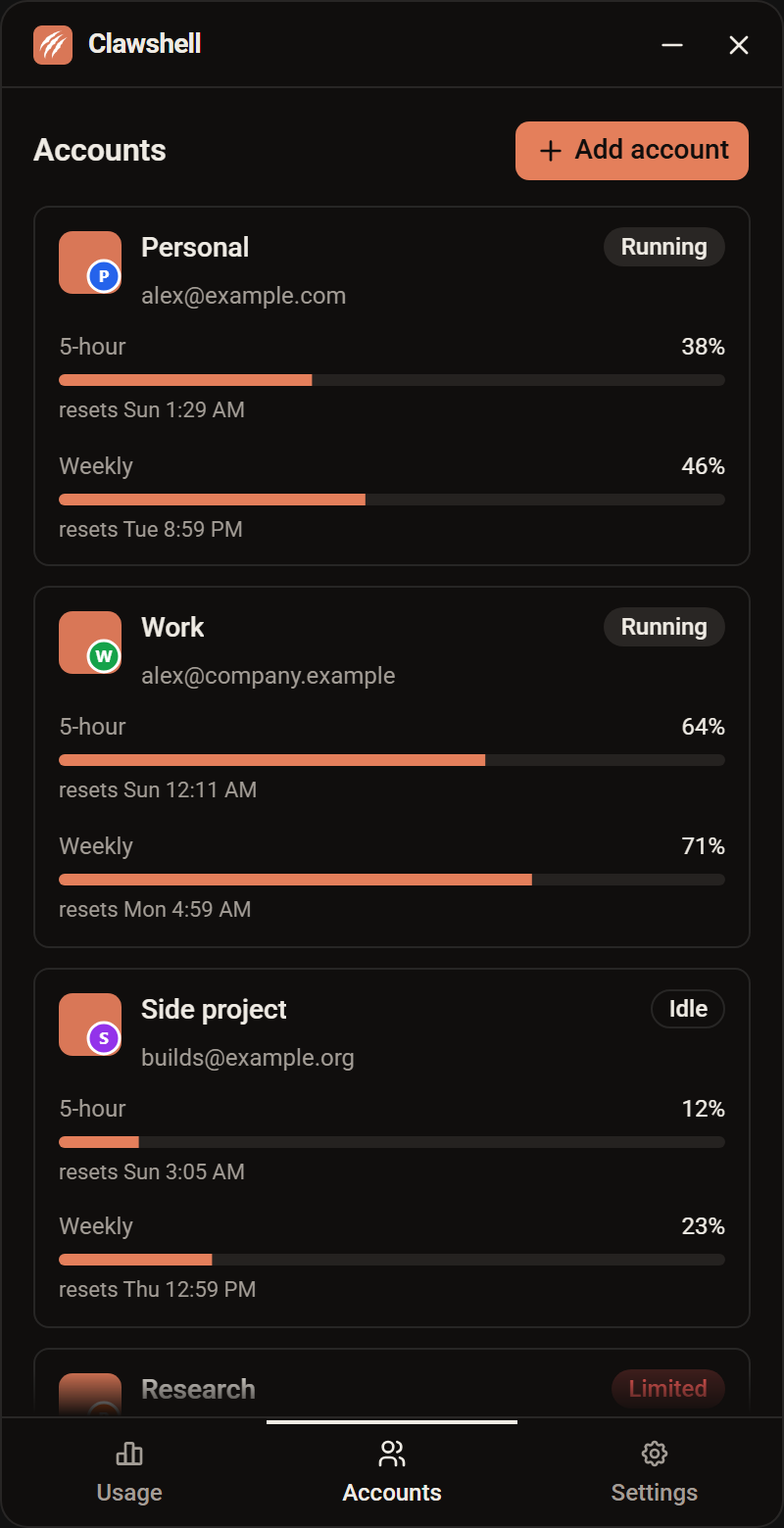
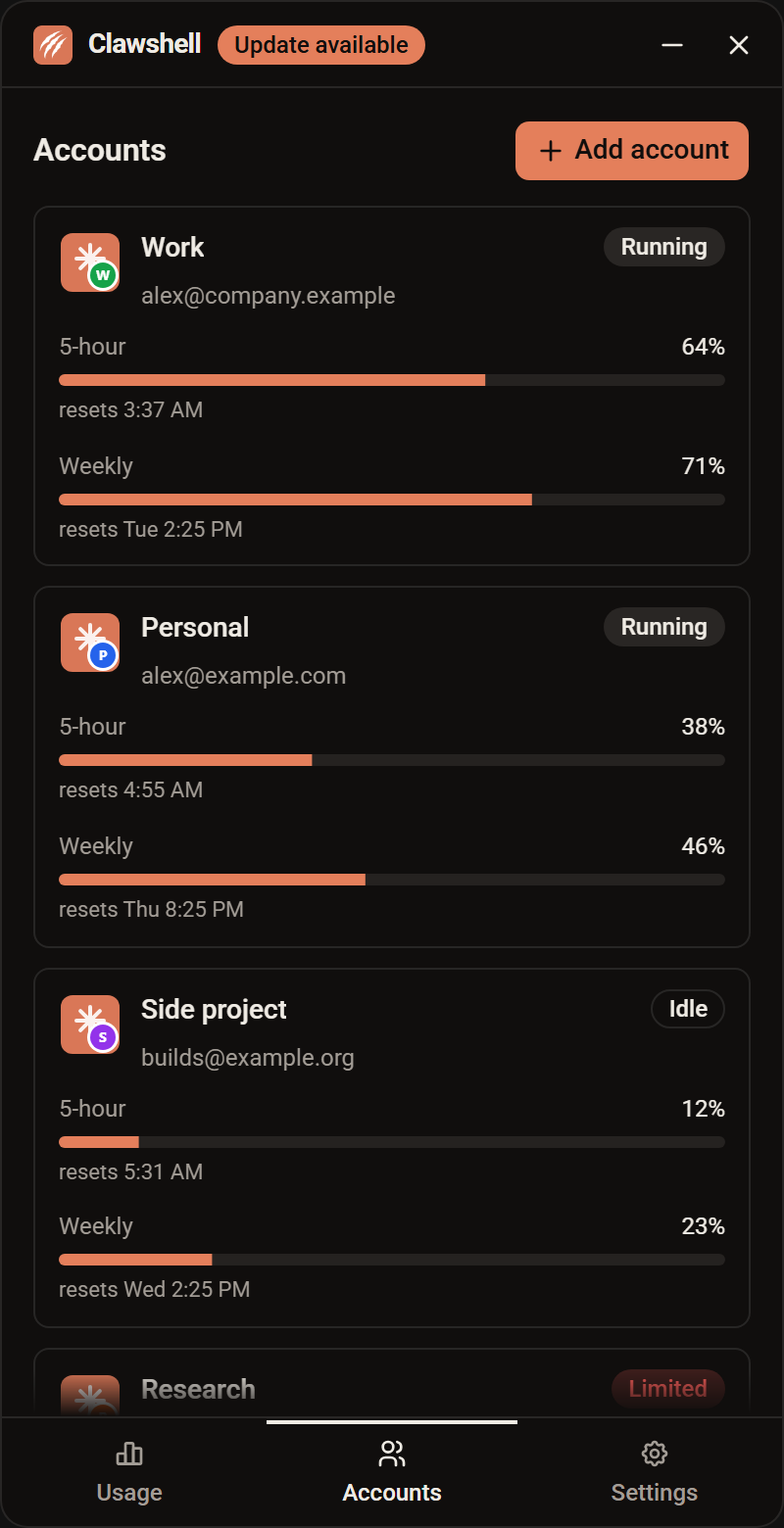
Rewrite README for v0.2.0 with new screenshots, and add release notes
Covers auto-update, drag-and-drop account order, reset alerts on every
window, the 9-week heatmap with per-account tooltips, and the sign-in
routing warning. Adds screenshots of the update dialog, heatmap tooltip,
notification settings, sign-in warning and Persian layout, and the
v0.2.0 notes in docs/updates.

diff --git a/README.md b/README.md
@@ -5,7 +5,7 @@
 <h1 align="center">clawshell</h1>
 
 <p align="center">
-  Run several Claude Desktop accounts side by side on Windows, and see how much of each one's limits you have left.
+  Run several Claude Desktop accounts side by side on Windows, and see how much of each one's limits you have used.
 </p>
 
 <p align="center">
@@ -21,7 +21,10 @@
 
 ---
 
-clawshell is a small tray app for people with more than one Claude subscription. Each account runs in its own Claude Desktop window at the same time, so you never sign out to switch. A compact dashboard shows each account's remaining 5-hour and weekly capacity and what your Code-tab sessions cost.
+clawshell is a small tray app for people with more than one Claude subscription. Each account runs in its own Claude Desktop window at the same time, so you never sign out to switch. A compact dashboard shows how much of each account's 5-hour and weekly limits you have used, and what your Code-tab sessions cost.
+
+> [!TIP]
+> **New in this release:** automatic updates, drag-and-drop account order, a reset alert for every window, a 9-week heatmap with a per-account breakdown, and a warning when Windows sends sign-in links to another app. See [What's new](docs/updates/v0.2.0.md).
 
 > [!IMPORTANT]
 > clawshell is an unofficial project and is not affiliated with Anthropic. See the [disclaimer](#disclaimer) before you use it.
@@ -32,6 +35,7 @@ clawshell is a small tray app for people with more than one Claude subscription.
 - [Screenshots](#screenshots)
 - [Requirements](#requirements)
 - [Installation](#installation)
+- [Updating](#updating)
 - [Usage](#usage)
 - [How it works](#how-it-works)
 - [Privacy](#privacy)
@@ -44,21 +48,35 @@ clawshell is a small tray app for people with more than one Claude subscription.
 ## Features
 
 - **Concurrent accounts.** Every account gets an isolated Claude Desktop profile, so several can be open and signed in at once.
-- **Limit tracking.** See the 5-hour and weekly usage of every account, how many accounts can still work, and when the next one resets.
+- **Limit tracking.** See how much of each account's 5-hour and weekly limits is used, how many accounts can still work, and when the next one resets.
 - **Cost overview.** A monthly dollar total per account, combining real extra-usage spend with an estimate for Code-tab sessions priced from token counts.
-- **60-day heatmap.** Daily cost or daily load at a glance.
-- **Limit notifications.** Alerts when an account crosses thresholds you choose.
+- **9-week heatmap.** Daily cost at a glance. Hover a day to see its dollars and tokens, split by account.
+- **Limit and reset notifications.** Alerts when an account crosses thresholds you choose, and whenever a 5-hour or weekly window resets.
+- **Your order.** Drag accounts to reorder them. The order carries over to the tray menu, the cost card and the heatmap.
+- **Automatic updates.** clawshell checks GitHub releases, shows what's new, and installs the update in place.
 - **Windows integration.** Tray icon, a separate taskbar button per account with a coloured badge, desktop shortcuts, and launch at boot.
-- **Sign-in routing.** Browser sign-ins return to the account that started them.
+- **Sign-in routing.** Browser sign-ins return to the account that started them, with a warning if Windows sends them elsewhere.
 - **Per-account configuration.** Names, badge colours, environment variables and launch flags.
-- **English and Persian.** Full right-to-left layout for Persian.
+- **English and Persian.** Full right-to-left layout for Persian, tooltips and menus included.
 
 ## Screenshots
 
-|                                                                          Usage                                                                          |                                                                 Accounts                                                                  |                                                               Settings                                                               |
-| :-----------------------------------------------------------------------------------------------------------------------------------------------------: | :---------------------------------------------------------------------------------------------------------------------------------------: | :----------------------------------------------------------------------------------------------------------------------------------: |
-| <img src="docs/screenshots/usage.png" alt="Usage tab with a 60-day cost heatmap, pooled 5-hour and weekly capacity, and the monthly total" width="260"> | <img src="docs/screenshots/accounts.png" alt="Accounts tab listing each account with its status and 5-hour and weekly usage" width="260"> | <img src="docs/screenshots/settings.png" alt="Settings tab with launch, tray, sign-in routing and notification options" width="260"> |
-|                                                     Monthly cost, pooled capacity and daily history                                                     |                                                     Every account's status and limits                                                     |                                                  Startup, tray, routing and alerts                                                   |
+|                                                                        Usage                                                                         |                                                                 Accounts                                                                  |                                                        Settings                                                        |
+| :--------------------------------------------------------------------------------------------------------------------------------------------------: | :---------------------------------------------------------------------------------------------------------------------------------------: | :--------------------------------------------------------------------------------------------------------------------: |
+| <img src="docs/screenshots/usage.png" alt="Usage tab with a 9-week cost heatmap, pooled 5-hour and weekly usage, and the monthly total" width="260"> | <img src="docs/screenshots/accounts.png" alt="Accounts tab listing each account with its status and 5-hour and weekly usage" width="260"> | <img src="docs/screenshots/settings.png" alt="Settings tab with launch, tray and sign-in routing options" width="260"> |
+|                                                     Daily history, pooled usage and monthly cost                                                     |                                                     Every account's status and limits                                                     |                                           Startup, tray and sign-in routing                                            |
+
+### New in this release
+
+|                                                                  Update dialog                                                                   |                                                                    Heatmap breakdown                                                                    |                                                                   Reset alerts                                                                   |
+| :----------------------------------------------------------------------------------------------------------------------------------------------: | :-----------------------------------------------------------------------------------------------------------------------------------------------------: | :----------------------------------------------------------------------------------------------------------------------------------------------: |
+| <img src="docs/screenshots/update.png" alt="Update dialog showing the new version, its release notes, and Update and Later buttons" width="260"> | <img src="docs/screenshots/heatmap-tooltip.png" alt="Heatmap tooltip with a day's dollars and tokens, split by account with badge colours" width="260"> | <img src="docs/screenshots/notifications.png" alt="Notification settings with warning, limit and reset alerts and their thresholds" width="260"> |
+|                                                       Release notes, one click to install                                                        |                                                         A day's dollars and tokens per account                                                          |                                                         Warning, limit and reset alerts                                                          |
+
+|                                                                            Sign-in warning                                                                            |                                                   Persian                                                   |
+| :-------------------------------------------------------------------------------------------------------------------------------------------------------------------: | :---------------------------------------------------------------------------------------------------------: |
+| <img src="docs/screenshots/sign-in-warning.png" alt="Settings warning that Windows sends sign-in links to another app, with an Open Default Apps button" width="260"> | <img src="docs/screenshots/persian.png" alt="Usage tab in Persian with a right-to-left layout" width="260"> |
+|                                                            Tells you when Windows sends sign-ins elsewhere                                                            |                                          Right-to-left throughout                                           |
 
 <sub>Screenshots use sample data.</sub>
 
@@ -76,35 +94,51 @@ clawshell is a small tray app for people with more than one Claude subscription.
 2. Run it and follow the prompts.
 3. Start clawshell. It finds `Claude.exe` automatically. If detection fails, set the path under **Settings**.
 
+## Updating
+
+clawshell checks the latest GitHub release when it starts and every 6 hours after that. When a newer version exists, an **Update available** badge appears next to the title. Click it to read the release notes, then choose **Update** to download and install it. clawshell restarts on the new version when the install finishes. If the download fails, your current version keeps running and the dialog offers **Retry**.
+
+Only stable releases are offered. Every update is signed, and clawshell refuses one whose signature doesn't match.
+
+> [!NOTE]
+> v0.1.0 shipped without the updater. If you're on v0.1.0, install the latest release by hand once. From then on, clawshell updates itself.
+
 ## Usage
 
 The window is phone-sized (400×780) with three tabs along the bottom. clawshell lives in the system tray.
 
 ### Usage tab
 
-Shows this month's dollar total across all accounts, split per account. Two bars show the average 5-hour and weekly capacity left across your signed-in accounts, how many accounts can still work, and when the next one resets. A heatmap of the last 60 days shows daily cost or daily load.
+- **Last 9 weeks.** A heatmap of daily cost, nine full weeks from Sunday (Saturday in Persian). Days still to come this week are drawn as faint slots, and dashed cells mean no data. Hover or tap a day to see its dollars and tokens, then each account's share with its badge colour.
+- **5-hour and weekly.** The average share of each limit used across your signed-in accounts, how many accounts can still work, and when the next one resets. The bars change colour at your warning and limit thresholds.
+- **This month.** The dollar total across all accounts, split into Code-tab estimate and extra usage, with token counts and each account's share.
 
 ### Accounts tab
 
-Lists each account with its name, email, 5-hour and weekly usage, and one of four statuses: **Running**, **Idle**, **Signed out** or **Limited**.
+Lists each account with its badge, name, email, 5-hour and weekly usage, and one of four statuses: **Running**, **Idle**, **Signed out** or **Limited**.
 
-| Action               | How                                                                                                           |
-| -------------------- | ------------------------------------------------------------------------------------------------------------- |
-| Open an account      | Double-click it. If its window is already open, clawshell brings it forward.                                  |
-| Add an account       | Click **Add**. clawshell creates a profile and opens Claude at the sign-in screen.                            |
-| Configure an account | Rename it, change its badge colour, set environment variables and launch flags, or create a desktop shortcut. |
-| Remove an account    | Delete it from the account's menu.                                                                            |
+| Action               | How                                                                                                                          |
+| -------------------- | ---------------------------------------------------------------------------------------------------------------------------- |
+| Open an account      | Double-click it. If its window is already open, clawshell brings it forward.                                                 |
+| Add an account       | Click **Add account**, or choose **Add account** from the tray menu. clawshell creates a profile and opens Claude's sign-in. |
+| Reorder accounts     | Drag a row up or down. The tray menu, cost card and heatmap follow the same order.                                           |
+| Configure an account | Right-click it to rename it, change its badge colour, set launch options, add shortcuts or open its folder.                  |
+| Remove an account    | Right-click it and choose **Delete**.                                                                                        |
 
 ### Settings tab
 
-| Setting         | Description                                                  |
-| --------------- | ------------------------------------------------------------ |
-| Launch at boot  | Start with Windows, either shown or hidden in the tray.      |
-| Close to tray   | Keep running in the tray when the window is closed.          |
-| Language        | English or Persian (right-to-left).                          |
-| Sign-in routing | Send browser sign-ins back to the account that started them. |
-| Notifications   | Alert when an account reaches the usage thresholds you set.  |
-| Claude path     | A manual path to `Claude.exe` if automatic detection fails.  |
+| Setting                  | Description                                                                                   |
+| ------------------------ | --------------------------------------------------------------------------------------------- |
+| Launch at boot           | Start clawshell when Windows starts.                                                          |
+| Start hidden             | When Windows starts it, stay in the tray instead of showing the window.                       |
+| Close to tray            | Keep running in the tray when the window is closed. Off, it quits.                            |
+| Sign-in routing          | Send browser sign-ins back to the account that started them.                                  |
+| Warning and limit alerts | Notify when an account reaches the warning or limit threshold you set.                        |
+| Reset alert              | Notify whenever an account's 5-hour or weekly window resets, whether or not it hit the limit. |
+| Language                 | English or Persian (right-to-left). Also changes the tray menu.                               |
+| Claude.exe path          | A manual path to `Claude.exe` if automatic detection fails.                                   |
+
+If sign-in routing is on but Windows sends `claude://` links to another app, which happens with the Microsoft Store build of Claude, Settings shows a warning with an **Open Default Apps** button. Set the `claude` link type to clawshell there and the warning clears by itself.
 
 ## How it works
 
@@ -120,11 +154,15 @@ Usage numbers come from two undocumented Anthropic OAuth endpoints, one for the 
 
 Cost comes from the transcripts Claude Code writes for Code-tab sessions. clawshell matches them to accounts by session id and prices the tokens with [LiteLLM's public price list](https://github.com/BerriAI/litellm). Regular claude.ai chats leave no token data on disk, so they aren't counted. clawshell keeps no history of its own, and Claude Code deletes transcripts after about 30 days by default, so older days in the heatmap may show no data.
 
+### Updates
+
+clawshell uses the [Tauri updater](https://v2.tauri.app/plugin/updater/). It reads `latest.json` from the latest GitHub release, verifies the installer against the public key built into the app, and runs it in passive mode.
+
 ## Privacy
 
 - Tokens are read from local Claude Desktop profiles, held in memory, and never written elsewhere.
 - Tokens are sent only to Anthropic's own endpoints.
-- clawshell has no telemetry and no server of its own. The only other network request fetches LiteLLM's public price list.
+- clawshell has no telemetry and no server of its own. Besides Anthropic, it makes two kinds of request: one fetches LiteLLM's public price list, and the update check reads the latest release from GitHub.
 
 ## Development
 
@@ -161,7 +199,7 @@ Release builds also create signed updater artifacts, and `tauri build` fails at 
 
 | Layer        | Technology                                                                                     |
 | ------------ | ---------------------------------------------------------------------------------------------- |
-| Shell        | [Tauri v2](https://tauri.app/) (Rust)                                                          |
+| Shell        | [Tauri v2](https://tauri.app/) (Rust), with the updater and process plugins                    |
 | Frontend     | [SvelteKit](https://svelte.dev/docs/kit) with [Svelte 5](https://svelte.dev/)                  |
 | Styling      | [Tailwind CSS 4](https://tailwindcss.com/) and [shadcn-svelte](https://www.shadcn-svelte.com/) |
 | Localisation | [Paraglide](https://inlang.com/m/gerre34r/library-inlang-paraglideJs) (English and Persian)    |
@@ -171,33 +209,38 @@ Release builds also create signed updater artifacts, and `tauri build` fails at 
 
 ```text
 src/                SvelteKit frontend
-  lib/              Usage, cost, heatmap and locale logic, with tests
+  lib/              Usage, cost, heatmap, update and locale logic, with tests
+  lib/components/   App shell, header, update badge and dialog, heatmap
   lib/screens/      The Usage, Accounts and Settings screens
 messages/           Translation strings (en.json, fa.json)
 src-tauri/          Rust backend: profiles, tray, taskbar, shortcuts, commands
-.scratch/           Spec and tickets for v1
+.scratch/           Specs and tickets (clawshell-v1, auto-update)
+docs/screenshots/   README screenshots
+docs/updates/       Release notes for each version
 docs/agents/        Notes for coding agents on issues and labels
 ```
 
 ### Project docs
 
-- `.scratch/clawshell-v1/spec.md` holds the full spec: user stories, implementation decisions and testing seams. Its Further Notes record the ticket 01 check, which confirmed that a token read from a Claude Desktop profile is accepted by both OAuth endpoints.
-- `.scratch/clawshell-v1/issues/` holds the 15 v1 tickets, all resolved.
+- `.scratch/clawshell-v1/spec.md` holds the v1 spec: user stories, implementation decisions and testing seams. Its 15 tickets in `.scratch/clawshell-v1/issues/` are all resolved.
+- `.scratch/auto-update/spec.md` holds the auto-update spec and its tickets.
+- `docs/updates/` holds the notes for each release.
 
 ## Releasing
 
 Releases are built by the [release workflow](.github/workflows/release.yml) on GitHub Actions.
 
-1. Bump `version` in `src-tauri/tauri.conf.json`.
-2. Commit the change.
-3. Push a matching tag, for example `v0.1.0`:
+1. Bump `version` in `src-tauri/tauri.conf.json` and `package.json`.
+2. Add the release notes to `docs/updates/`.
+3. Commit the changes.
+4. Push a matching tag, for example `v0.2.0`:
 
    ```powershell
-   git tag v0.1.0
-   git push origin v0.1.0
+   git tag v0.2.0
+   git push origin v0.2.0
    ```
 
-The workflow fails if the tag and the version differ. Otherwise it runs the tests, builds the Windows installers, signs them for the updater and publishes them to a GitHub release together with `latest.json`. Installed copies of clawshell read that file from the latest stable release to find updates, so drafts and prereleases never reach users.
+The workflow fails if the tag and the version differ. Otherwise it runs the tests, builds the Windows installers, signs them for the updater and publishes them to a GitHub release together with `latest.json`. The release body is what the in-app update dialog shows under **What's new**, so paste the notes there. Installed copies of clawshell read `latest.json` from the latest stable release to find updates, so drafts and prereleases never reach users.
 
 ### Signing key setup
 
@@ -217,10 +260,7 @@ Updates are verified against a key pair. Set it up once before the first updater
 3. Put the contents of `~/.tauri/clawshell.key.pub` in `plugins.updater.pubkey` in `src-tauri/tauri.conf.json`, then commit it.
 4. Back up the private key and its password somewhere outside the repository, such as a password manager. If you lose the key, installed copies cannot verify a new key and every user has to reinstall by hand.
 
-Never commit the private key. Release builds fail at the end of bundling if `TAURI_SIGNING_PRIVATE_KEY` is missing or does not match the public key in the config.
-
-> [!NOTE]
-> v0.1.0 shipped without an updater, so its users have to install the first updater-enabled release by hand. From then on, clawshell updates itself.
+Never commit the private key. Release builds fail early if `TAURI_SIGNING_PRIVATE_KEY` is missing or the updater public key isn't set.
 
 ## Credits
 

diff --git a/docs/updates/v0.2.0.md b/docs/updates/v0.2.0.md
@@ -1,0 +1,64 @@
+# clawshell v0.2.0
+
+clawshell now updates itself, keeps your accounts in the order you choose, and tells you more about each day and each window.
+
+> [!NOTE]
+> v0.1.0 has no updater, so install v0.2.0 by hand from the [latest release](https://github.com/mehdikhody/clawshell/releases/latest). Every later version arrives in the app.
+
+## New
+
+### Automatic updates
+
+clawshell checks GitHub for a new release when it starts and every 6 hours after that. When one is out, an **Update available** badge appears next to the title. Click it to read the release notes, then choose **Update**. clawshell downloads the installer with a progress bar, installs it and restarts. If the download fails, your current version keeps running and you can **Retry**.
+
+Updates are signed, and clawshell only installs one whose signature matches the key built into the app. Drafts and prereleases are never offered.
+
+<img src="../screenshots/update.png" alt="Update dialog with release notes and Update and Later buttons" width="260">
+
+### Drag accounts into your own order
+
+Drag an account row up or down on the Accounts tab. The order is saved and used everywhere accounts are listed: the Accounts tab, the tray menu, the This month card and the heatmap tooltip. New accounts go to the end.
+
+### Add an account from the tray
+
+The tray menu has an **Add account** item. It brings the window forward on the Accounts tab with the Add dialog open.
+
+### Alerts on every reset
+
+The **Reset alert** used to fire only when a window that had hit its limit reset. It now fires whenever an account's 5-hour or weekly window resets, and says how much of the window was used. The first reading after clawshell starts stays silent, so you don't get a burst of alerts at launch.
+
+<img src="../screenshots/notifications.png" alt="Notification settings with warning, limit and reset alerts" width="260">
+
+### Warning when sign-in links go elsewhere
+
+With the Microsoft Store build of Claude, or after you pick another app for `claude://` links in Default Apps, Windows ignores clawshell's link handler and sign-ins never reach it. Settings now shows a warning while that's the case, with an **Open Default Apps** button. Set the `claude` link type to clawshell there, and the warning clears by itself. Turning sign-in routing on opens Default Apps for you when it's needed.
+
+<img src="../screenshots/sign-in-warning.png" alt="Settings warning that sign-in links aren't reaching clawshell" width="260">
+
+## Changed
+
+### A 9-week heatmap with a per-account breakdown
+
+The heatmap is now always nine full weeks, starting on Sunday (Saturday in Persian), so it no longer spills past its card. Days still to come this week are drawn as faint slots. The title reads **Last 9 weeks**.
+
+The tooltip shows the day's dollars and tokens in short form, such as `$12.3K` and `24.7M`, then lists each account's tokens and dollars with its badge colour. Accounts with no tokens that day are left out.
+
+<img src="../screenshots/heatmap-tooltip.png" alt="Heatmap tooltip with a day's dollars and tokens split by account" width="260">
+
+### Usage bars show what's used
+
+The 5-hour and weekly bars on the Usage tab, and their percentages, now show how much of each limit is used rather than how much is left, matching the Accounts tab.
+
+### Badge colours on the Usage tab
+
+The This month card and the heatmap tooltip show each account's badge colour as a dot before its name, and the card spaces its accounts further apart.
+
+## Fixed
+
+- Tooltips are laid out right to left in Persian, like the menus.
+
+## For maintainers
+
+- Release builds create signed updater artifacts and upload `latest.json` with the installers. The workflow fails early if the signing key or the updater public key is missing.
+- `npm run tauri:build:local` builds the installers without the signing key.
+- See [Releasing](../../README.md#releasing) for the signing key setup.
